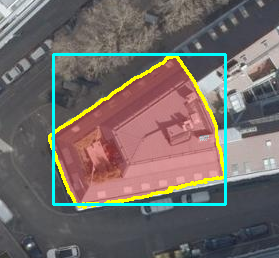
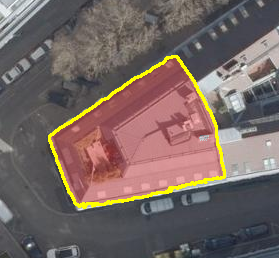
fix: remove prompt boxes from review overlays

Changed region(s): [[0.172, 0.186, 0.8315, 0.8062]]

diff --git a/src/rooftop_detection/detect.py b/src/rooftop_detection/detect.py
@@ -76,16 +76,14 @@ def _crop_for_building(source, geometry, transform: Affine, padding_m: float):
     return image, box, left, top
 
 
-def _write_overlay(image: Image.Image, mask: np.ndarray, box, output_path: Path) -> None:
-    """Write a review image; colours are debug annotations, never model input."""
+def _write_overlay(image: Image.Image, mask: np.ndarray, output_path: Path) -> None:
+    """Write a review image; colours are never part of the model input."""
     base = np.asarray(image).copy()
     tint = base.copy()
     tint[mask.astype(bool)] = (255, 30, 30)
     rendered = cv2.addWeighted(base, 0.68, tint, 0.32, 0)
     contours, _ = cv2.findContours(mask, cv2.RETR_EXTERNAL, cv2.CHAIN_APPROX_SIMPLE)
     cv2.drawContours(rendered, contours, -1, (255, 255, 0), 2)
-    x1, y1, x2, y2 = (round(value) for value in box[0][0])
-    cv2.rectangle(rendered, (x1, y1), (x2, y2), (0, 255, 255), 2)
     output_path.parent.mkdir(parents=True, exist_ok=True)
     cv2.imwrite(str(output_path), cv2.cvtColor(rendered, cv2.COLOR_RGB2BGR))
 
@@ -138,7 +136,7 @@ def run_detect(
             wgs84_polygon = transform(to_wgs84, polygon)
             building_id = building["building_id"]
             mask = masks[best_index].numpy().astype(np.uint8)
-            _write_overlay(image, mask, box, overlays_dir / f"{building_id}.png")
+            _write_overlay(image, mask, overlays_dir / f"{building_id}.png")
             records.append(
                 {
                     "building_id": building_id,

diff --git a/README.md b/README.md
@@ -13,7 +13,7 @@ uv run rooftop-detection detect --config configs/vienna_c2.toml
 `prepare` embeds the JPEG world file and EPSG:31256 into an ignored GeoTIFF. `detect` reads the original JPEG in small windows, runs SAM2 once for each target, and writes committed deliverables:
 
 - `outputs/roof_attributes.json` — WGS84 roof geometries, native-metre areas, provenance, and confidence.
-- `outputs/overlays/*.png` — review imagery. Red is the mask, yellow is its vector boundary, cyan is the numerical box prompt rendered only for review.
+- `outputs/overlays/*.png` — review imagery. Red is the mask and yellow is its vector boundary.
 
 The source JPEG/JGW are intentionally ignored; see `data/README.md` for acquisition. The SAM2 model is loaded from the local Hugging Face cache, so inference uses no network. On this host use ROCm device 0 (the 24 GiB Radeon RX 7900 XTX).
 
